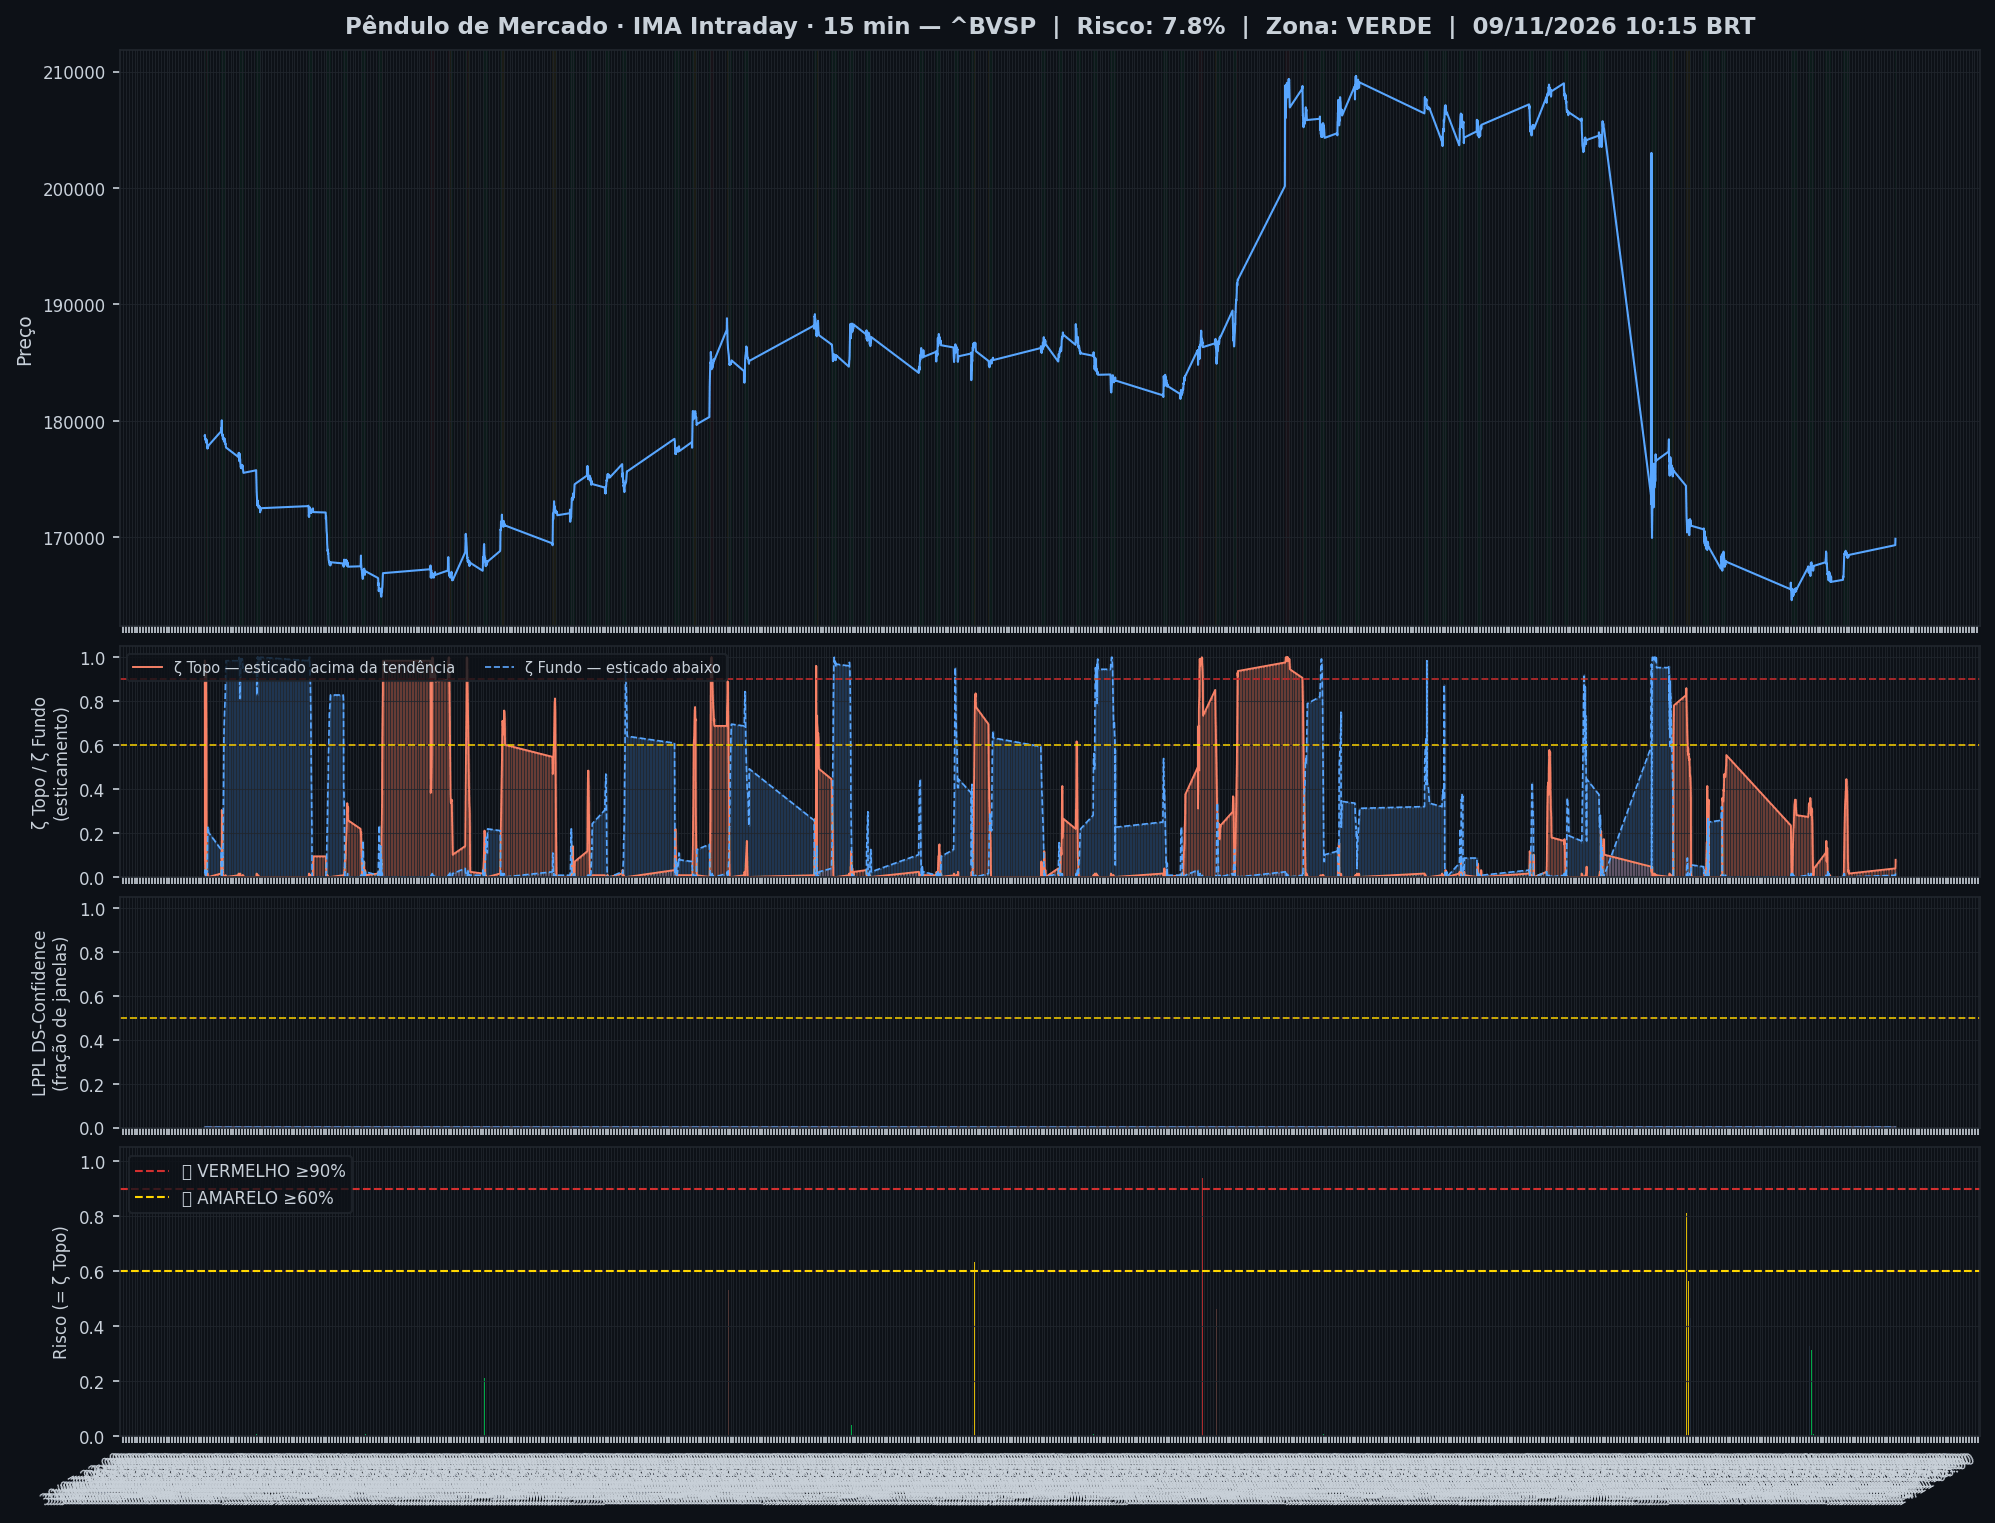
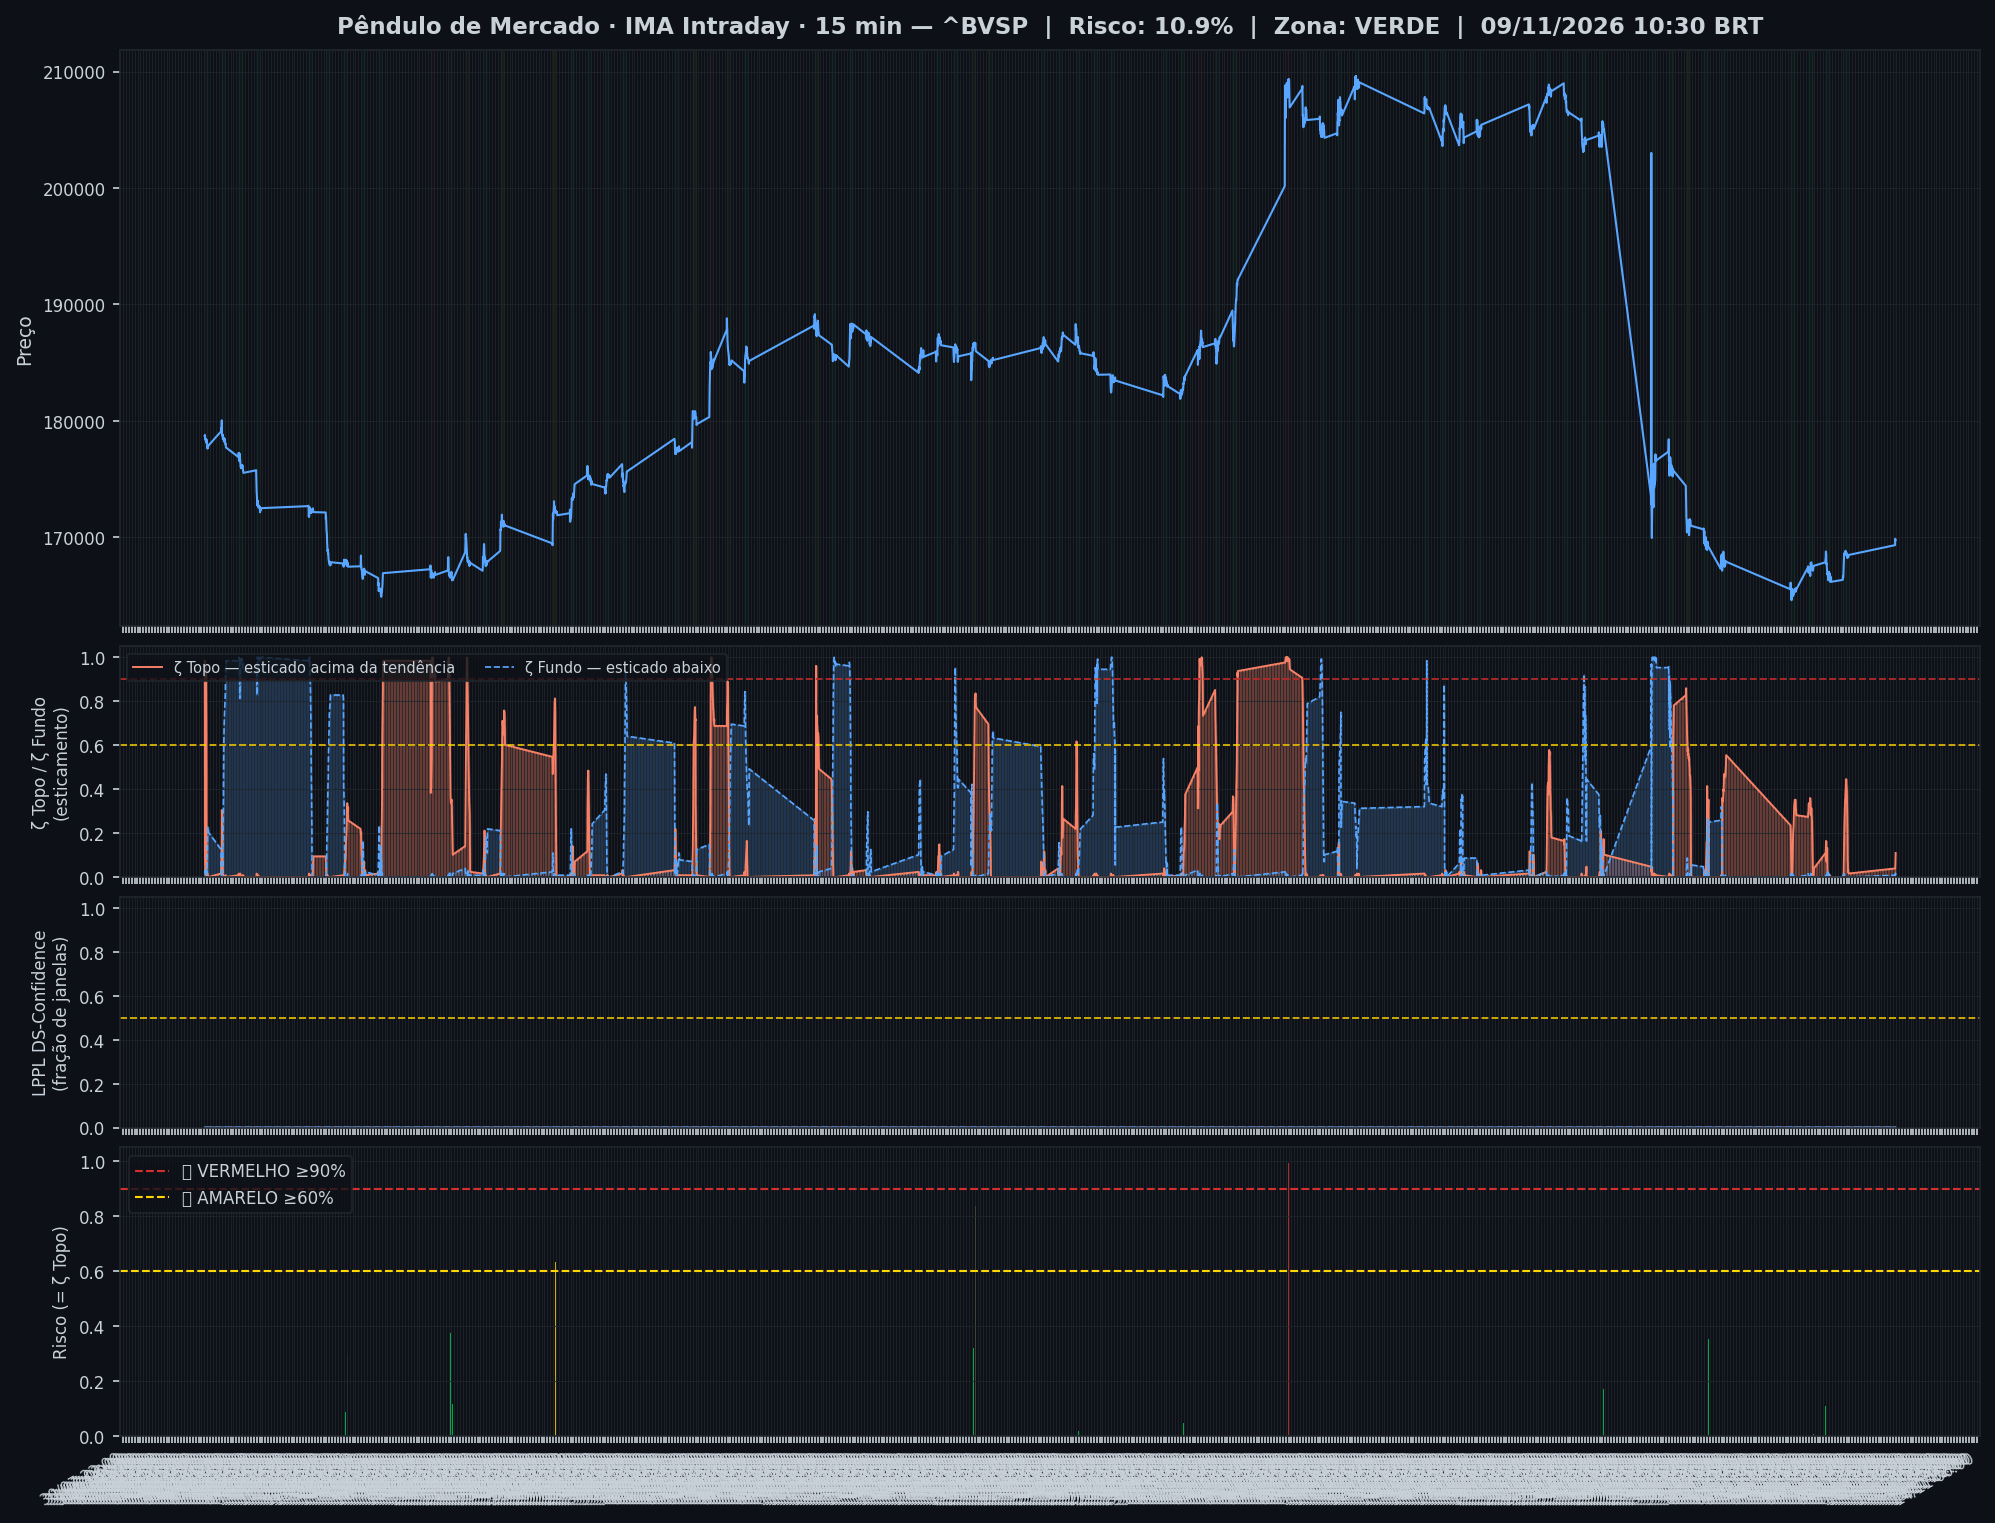
🤖 Auto: Sinal 09/11/2026 10:46

diff --git a/content/intraday/2026-11-09.md b/content/intraday/2026-11-09.md
@@ -1,10 +1,10 @@
 ---
-title: "🟢 Intraday 09/11/2026 10:15 BRT — VERDE"
+title: "🟢 Intraday 09/11/2026 10:30 BRT — VERDE"
 date: 2026-11-09
 tags: [intraday]
 ---
 
-> [!success] Onde o mercado está agora (09/11 10:15, candles de 15 min): **🟢 Calmo**
+> [!success] Onde o mercado está agora (09/11 10:30, candles de 15 min): **🟢 Calmo**
 > `Pânico ◀───────────●─────────▶ Euforia`
 >
 > O Ibovespa está dentro da sua faixa normal, sem excesso para cima nem para baixo.
@@ -20,7 +20,7 @@ tags: [intraday]
 > | 📍 **Sinais** | hoje: nenhum sinal | [abrir](sinais-topo-fundo/) |
 > | 🧪 **Placar ao vivo** | 1 operação(ões), 0 com lucro, soma -0,8% | [abrir](operacoes/) |
 
-> [!success] IMA Intraday · 15 min (09/11 10:15): 🟢 **VERDE** — Risco 8% · ▲ +4 p.p. vs leitura anterior
+> [!success] IMA Intraday · 15 min (09/11 10:30): 🟢 **VERDE** — Risco 11% · ▲ +3 p.p. vs leitura anterior
 > `██░░░░░░░░░░░░░░░░░░`
 > Preço na faixa normal em torno da tendência.
 
@@ -32,13 +32,13 @@ tags: [intraday]
 >
 > *Leitura educacional baseada em 26 anos de dados, não recomendação. [Como usar](../metodologia/crise#3-como-usar-na-prática).*
 
-| Indicador — IMA Intraday · 15 min (09/11 10:15) | Valor |
+| Indicador — IMA Intraday · 15 min (09/11 10:30) | Valor |
 |---|---|
-| 🔴 ζ Topo — preço esticado acima da tendência | **8%** |
-| 🔵 ζ Fundo — preço esticado abaixo da tendência | 2% |
+| 🔴 ζ Topo — preço esticado acima da tendência | **11%** |
+| 🔵 ζ Fundo — preço esticado abaixo da tendência | 1% |
 | 🫧 LPPL bolha — alta super-exponencial (risco de crash) | 0% |
 | 🫧 LPPL antibolha — queda super-exponencial (risco de repique) | 0% |
-| 📊 Ibovespa | 169.890 pts |
+| 📊 Ibovespa | 169.789 pts |
 
 ![Gráfico do sinal](../graficos/sinal_intraday.png)
 
@@ -46,6 +46,7 @@ tags: [intraday]
 
 | Data | Zona | Evento | Risco | ζ Topo | ζ Fundo | LPPL |
 |---|---|---|---|---|---|---|
+| 2026-11-09 10:30 | 🟢 VERDE |  | **11%** | 11% | 1% | 0% |
 | 2026-11-09 10:15 | 🟢 VERDE |  | **8%** | 8% | 2% | 0% |
 | 2026-11-09 10:00 | 🟢 VERDE |  | **4%** | 4% | 1% | 0% |
 | 2026-11-06 18:00 | 🟢 VERDE |  | **2%** | 2% | 0% | 0% |
@@ -75,7 +76,6 @@ tags: [intraday]
 | 2026-11-06 12:00 | 🟢 VERDE |  | **24%** | 24% | 0% | 0% |
 | 2026-11-06 11:45 | 🟢 VERDE |  | **21%** | 21% | 1% | 0% |
 | 2026-11-06 11:30 | 🟢 VERDE |  | **13%** | 13% | 2% | 0% |
-| 2026-11-06 11:15 | 🟢 VERDE |  | **7%** | 7% | 1% | 0% |
 
 <small>Destaques: 🟡 ≥ 60% · 🔴 ≥ 90% (Risco e ζ Topo) · 🔵 ≥ 60% · 🔪 ≥ 90% (ζ Fundo) · 🫧 ≥ 30% · 🫧🔴 ≥ 50% (LPPL)</small>
 
@@ -84,41 +84,41 @@ tags: [intraday]
 **8% dos ativos em tensão** (0🔴 2🟡) · **1 com ζ Fundo alto** — quanto mais ativos disparam juntos, mais confiável o sinal.
 
 > [!warning] Em destaque no multi-ativo
-> 🔵 **ULTRAPAR** ζ Fundo 75% · 🟡 **SABESP** ζ Topo 68% · 🟡 **BRASIL** ζ Topo 66%
+> 🟡 **SABESP** ζ Topo 68% · 🟡 **BRASIL** ζ Topo 65% · 🔵 **ULTRAPAR** ζ Fundo 64%
 
 | Zona | Ativo | Setor | ζ Topo | ζ Fundo |
 |---|---|---|---|---|
-| 🟢 | **ULTRAPAR** | Outros | 0.8% | 🔵 **75.0%** |
 | 🟡 | **SABESP** | Saneamento | 🟡 **68.0%** | 0.0% |
-| 🟡 | **BRASIL** | Financeiro | 🟡 **66.4%** | 0.0% |
-| 🟢 | **SUZANO S.A.** | Papel/Celulose | 29.7% | 1.6% |
-| 🟢 | **BRADESCO** | Financeiro | 16.4% | 2.3% |
-| 🟢 | **AMBEV S/A** | Consumo | 0.8% | 11.7% |
-| 🟢 | **VALE** | Mineração | 10.9% | 2.3% |
-| 🟢 | **VIBRA** | Energia | 9.4% | 4.7% |
-| 🟢 | **ITAUUNIBANCO** | Financeiro | 6.2% | 2.3% |
-| 🟢 | **PRIO** | Petróleo | 2.3% | 6.2% |
-| 🟢 | **WEG** | Industrial | 5.5% | 0.8% |
-| 🟢 | **LOCALIZA** | Aluguel | 5.5% | 0.0% |
-| 🟢 | **ITAUSA** | Financeiro | 4.7% | 3.9% |
-| 🟢 | **EMBRAER** | Outros | 4.7% | 3.1% |
-| 🟢 | **ENEVA** | Energia | 4.7% | 0.8% |
-| 🟢 | **REDE D OR** | Saúde | 4.7% | 0.0% |
-| 🟢 | **PETROBRAS** | Petróleo | 3.9% | 1.6% |
-| 🟢 | **PETROBRAS** | Petróleo | 2.3% | 3.9% |
-| 🟢 | **COPEL** | Energia | 3.9% | 1.6% |
-| 🟢 | **B3** | Financeiro | 0.8% | 3.1% |
-| 🟢 | **BTGP BANCO** | Financeiro | 3.1% | 2.3% |
-| 🟢 | **AXIA ENERGIA** | Energia | 1.6% | 2.3% |
-| 🟢 | **EQUATORIAL** | Energia | 1.6% | 1.6% |
-| 🟢 | **GERDAU** | Siderurgia | 1.6% | 0.8% |
-| 🟢 | **USD/BRL** | Câmbio | 0.0% | 0.0% |
+| 🟡 | **BRASIL** | Financeiro | 🟡 **64.8%** | 0.0% |
+| 🟢 | **ULTRAPAR** | Outros | 4.7% | 🔵 **64.1%** |
+| 🟢 | **BRADESCO** | Financeiro | 21.9% | 0.8% |
+| 🟢 | **SUZANO S.A.** | Papel/Celulose | 18.8% | 5.5% |
+| 🟢 | **VALE** | Mineração | 17.2% | 2.3% |
+| 🟢 | **VIBRA** | Energia | 13.3% | 4.7% |
+| 🟢 | **WEG** | Industrial | 11.7% | 2.3% |
+| 🟢 | **ITAUUNIBANCO** | Financeiro | 10.2% | 1.6% |
+| 🟢 | **EMBRAER** | Outros | 10.2% | 2.3% |
+| 🟢 | **PRIO** | Petróleo | 1.6% | 10.2% |
+| 🟢 | **ITAUSA** | Financeiro | 8.6% | 1.6% |
+| 🟢 | **ENEVA** | Energia | 8.6% | 0.8% |
+| 🟢 | **AMBEV S/A** | Consumo | 0.8% | 7.8% |
+| 🟢 | **LOCALIZA** | Aluguel | 7.0% | 0.0% |
+| 🟢 | **BTGP BANCO** | Financeiro | 6.2% | 0.8% |
+| 🟢 | **PETROBRAS** | Petróleo | 0.8% | 5.5% |
+| 🟢 | **COPEL** | Energia | 5.5% | 0.8% |
+| 🟢 | **GERDAU** | Siderurgia | 5.5% | 1.6% |
+| 🟢 | **PETROBRAS** | Petróleo | 0.8% | 3.9% |
+| 🟢 | **AXIA ENERGIA** | Energia | 3.9% | 0.8% |
+| 🟢 | **REDE D OR** | Saúde | 3.9% | 0.8% |
+| 🟢 | **EQUATORIAL** | Energia | 1.6% | 0.8% |
+| 🟢 | **B3** | Financeiro | 0.8% | 0.8% |
+| 🟢 | **USD/BRL** | Câmbio | 0.8% | 0.8% |
 
 <small>Destaques: 🟡 ≥ 60% · 🔴 ≥ 90% (Risco e ζ Topo) · 🔵 ≥ 60% · 🔪 ≥ 90% (ζ Fundo) · 🫧 ≥ 30% · 🫧🔴 ≥ 50% (LPPL)</small>
 
 ![Monitor multi-ativo](../graficos/multi_intraday.png)
 
-*Página atualizada em 09/11/2026 10:30 BRT (leitura da barra de 2026-11-09 10:15 BRT).*
+*Página atualizada em 09/11/2026 10:46 BRT (leitura da barra de 2026-11-09 10:30 BRT).*
 
 > [!warning] O que este indicador não faz
 > Medido em 5 anos de Ibovespa, o ζ **não antecipa** topos nem fundos: a capacidade de separar o que sobe do que cai ficou em 0,49–0,52, e 0,50 é moeda jogada ao ar. Ele descreve o estado de agora; não é aviso do que vem. As zonas verde/amarelo/vermelho continuam na página como descrição desse estado — **não as use como sinal de entrada ou saída**.

diff --git a/content/index.md b/content/index.md
@@ -6,9 +6,9 @@ tags: [home]
 
 **As ondas do mercado, explicadas.** Leitura do Ibovespa com estatística de 26 anos, baseada no trabalho de pesquisadores e traders reconhecidos e adaptada por Jarbas Daniel da Costa.
 
-*Última atualização: 09/11/2026 10:30 BRT · Intraday 15min*
+*Última atualização: 09/11/2026 10:46 BRT · Intraday 15min*
 
-> [!success] Onde o mercado está agora (09/11 10:15, candles de 15 min): **🟢 Calmo**
+> [!success] Onde o mercado está agora (09/11 10:30, candles de 15 min): **🟢 Calmo**
 > `Pânico ◀───────────●─────────▶ Euforia`
 >
 > O Ibovespa está dentro da sua faixa normal, sem excesso para cima nem para baixo.
@@ -20,7 +20,7 @@ tags: [home]
 
 | Módulo | Agora | |
 |---|---|---|
-| 🌊 **Sinal IMA** | 🟢 VERDE · 🟢 calmo · ζ Topo 8% | [relatório](intraday/2026-11-09) |
+| 🌊 **Sinal IMA** | 🟢 VERDE · 🟢 calmo · ζ Topo 11% | [relatório](intraday/2026-11-09) |
 | 📈 **Tendência MME9** | Diário — fora<br>Semanal — fora | [abrir](operacoes/tendencia) |
 | 🎯 **Entradas do método** | ⏳ aguardando: Diário · Nadaraya, Diário · Semáforo N3 após ζ Fundo | [abrir](operacoes/entradas) |
 | 📍 **Sinais** | hoje: nenhum sinal | [abrir](sinais-topo-fundo/) |
@@ -49,18 +49,18 @@ tags: [home]
 > *Leitura educacional baseada em 26 anos de dados, não recomendação. [Como usar](metodologia/crise#3-como-usar-na-prática).*
 
 > [!info]- 🌊 Detalhes do Sinal IMA (indicadores e últimos 7 pregões)
-> > [!success] IMA Intraday · 15 min (09/11 10:15): 🟢 **VERDE** — Risco 8% · ▲ +4 p.p. vs leitura anterior
+> > [!success] IMA Intraday · 15 min (09/11 10:30): 🟢 **VERDE** — Risco 11% · ▲ +3 p.p. vs leitura anterior
 > > `██░░░░░░░░░░░░░░░░░░`
 > > Preço na faixa normal em torno da tendência.
 >
 >
-> | Indicador — IMA Intraday · 15 min (09/11 10:15) | Valor |
+> | Indicador — IMA Intraday · 15 min (09/11 10:30) | Valor |
 > |---|---|
-> | 🔴 ζ Topo — preço esticado acima da tendência | **8%** |
-> | 🔵 ζ Fundo — preço esticado abaixo da tendência | 2% |
+> | 🔴 ζ Topo — preço esticado acima da tendência | **11%** |
+> | 🔵 ζ Fundo — preço esticado abaixo da tendência | 1% |
 > | 🫧 LPPL bolha — alta super-exponencial (risco de crash) | 0% |
 > | 🫧 LPPL antibolha — queda super-exponencial (risco de repique) | 0% |
-> | 📊 Ibovespa | 169.890 pts |
+> | 📊 Ibovespa | 169.789 pts |
 >
 > **Multi-ativo:** 8% em tensão (0🔴 2🟡 de 25 ativos)
 >
@@ -68,7 +68,7 @@ tags: [home]
 >
 > | Data | Zona | Risco | ζ Topo | ζ Fundo | LPPL |
 > |---|---|---|---|---|---|
-> | [09/11/2026](intraday/2026-11-09) | 🟢 VERDE | **8%** | 8% | 2% | 0% |
+> | [09/11/2026](intraday/2026-11-09) | 🟢 VERDE | **11%** | 11% | 1% | 0% |
 > | [06/11/2026](intraday/2026-11-06) | 🟢 VERDE | **2%** | 2% | 0% | 0% |
 >
 > <small>Destaques: 🟡 ≥ 60% · 🔴 ≥ 90% (Risco e ζ Topo) · 🔵 ≥ 60% · 🔪 ≥ 90% (ζ Fundo) · 🫧 ≥ 30% · 🫧🔴 ≥ 50% (LPPL)</small>

diff --git a/content/historico.md b/content/historico.md
@@ -5,7 +5,7 @@ tags: [historico]
 
 # 📜 Histórico de leituras (v5)
 
-**2.212 leituras** desde 2026-07-03. Na página ficam os últimos 3 dias leitura por leitura e o resumo de cada dia anterior; o registro inteiro está no arquivo para baixar.
+**2.213 leituras** desde 2026-07-03. Na página ficam os últimos 3 dias leitura por leitura e o resumo de cada dia anterior; o registro inteiro está no arquivo para baixar.
 
 [**Baixar o histórico completo**](historico-completo.csv) (97 KB · abre no Excel e no LibreOffice)
 
@@ -16,6 +16,7 @@ tags: [historico]
 
 | Data | Modo | Zona | Risco | IMA | LPPL |
 |---|---|---|---|---|---|
+| 2026-11-09 10:30 | intraday | 🟢 VERDE | 11% | 11% | 0% |
 | 2026-11-09 10:15 | intraday | 🟢 VERDE | 8% | 8% | 0% |
 | 2026-11-09 10:00 | intraday | 🟢 VERDE | 4% | 4% | 0% |
 | 2026-11-06 18:00 | intraday | 🟢 VERDE | 2% | 2% | 0% |

diff --git a/content/operacoes/ranking.md b/content/operacoes/ranking.md
@@ -5,7 +5,7 @@ tags: [operacoes]
 description: "As regras de compra do site ordenadas pelo resultado, com treino, teste e placar ao vivo"
 ---
 
-*Atualizado 09/11/2026 10:30 · histórico simulado com as regras congeladas em 23/10/2026 + placar ao vivo.*
+*Atualizado 09/11/2026 10:46 · histórico simulado com as regras congeladas em 23/10/2026 + placar ao vivo.*
 
 As regras de compra do site, **da que mais rendeu para a que menos rendeu**. O resultado é por operação, no índice à vista, sem custos e sem juros compostos (a soma é só a soma das operações). **Treino** = entradas de 2001 a 2013 e **teste** = 2014 em diante: uma regra só é confiável se ganhou nos dois. O único resultado sem nenhum ajuste ao histórico é o **placar ao vivo**.
 

diff --git a/content/linha-do-tempo/index.md b/content/linha-do-tempo/index.md
@@ -5,7 +5,7 @@ description: "Todo sinal, ordem, stop e aviso do Pêndulo de Mercado, do mais re
 tags: [eventos]
 ---
 
-*Atualizada 09/11/2026 10:30 BRT · a cada 15 min no pregão e às 19h.*
+*Atualizada 09/11/2026 10:46 BRT · a cada 15 min no pregão e às 19h.*
 
 Tudo o que o sistema fez ou detectou, **do mais recente para o mais antigo**: sinais de topo e fundo, ordens de compra e de venda armadas, compras, vendas, stops, avisos de 🚨 preço perto do nível e mudanças do Sinal IMA. Os **últimos 7 dias** ficam abertos; o resto, por **ano → mês → dia**.
 
